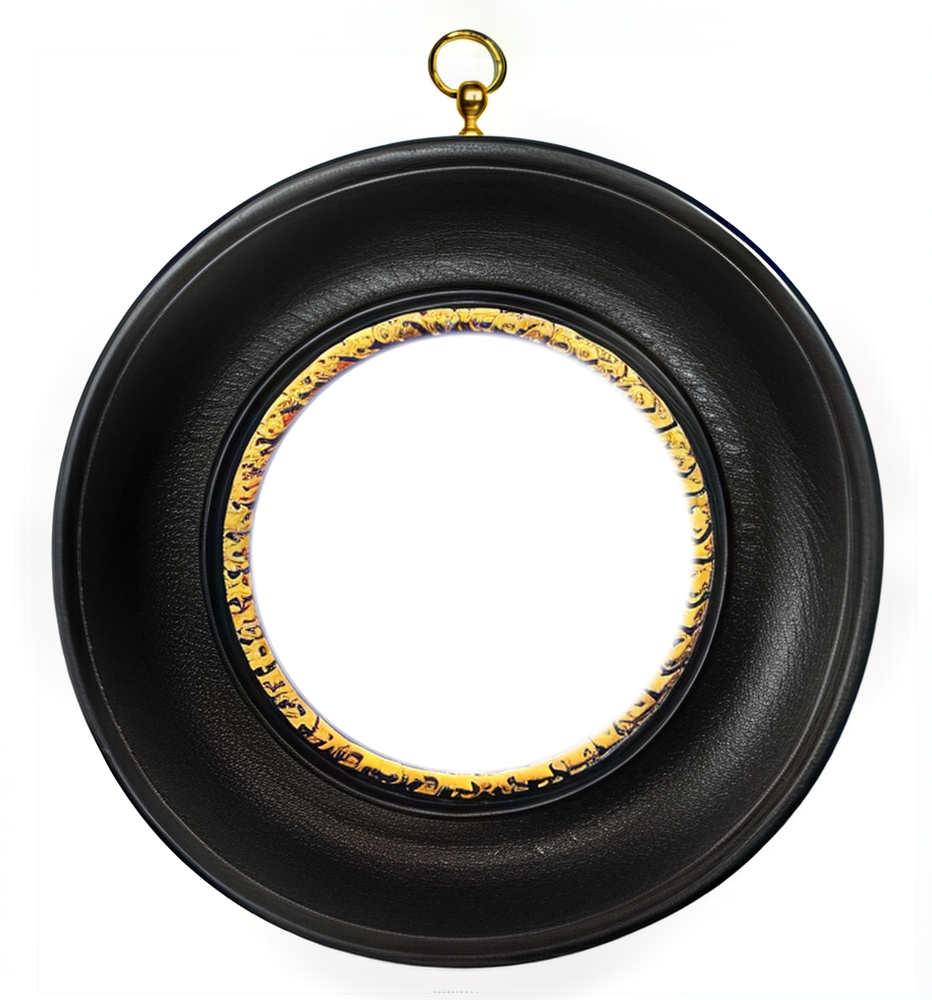
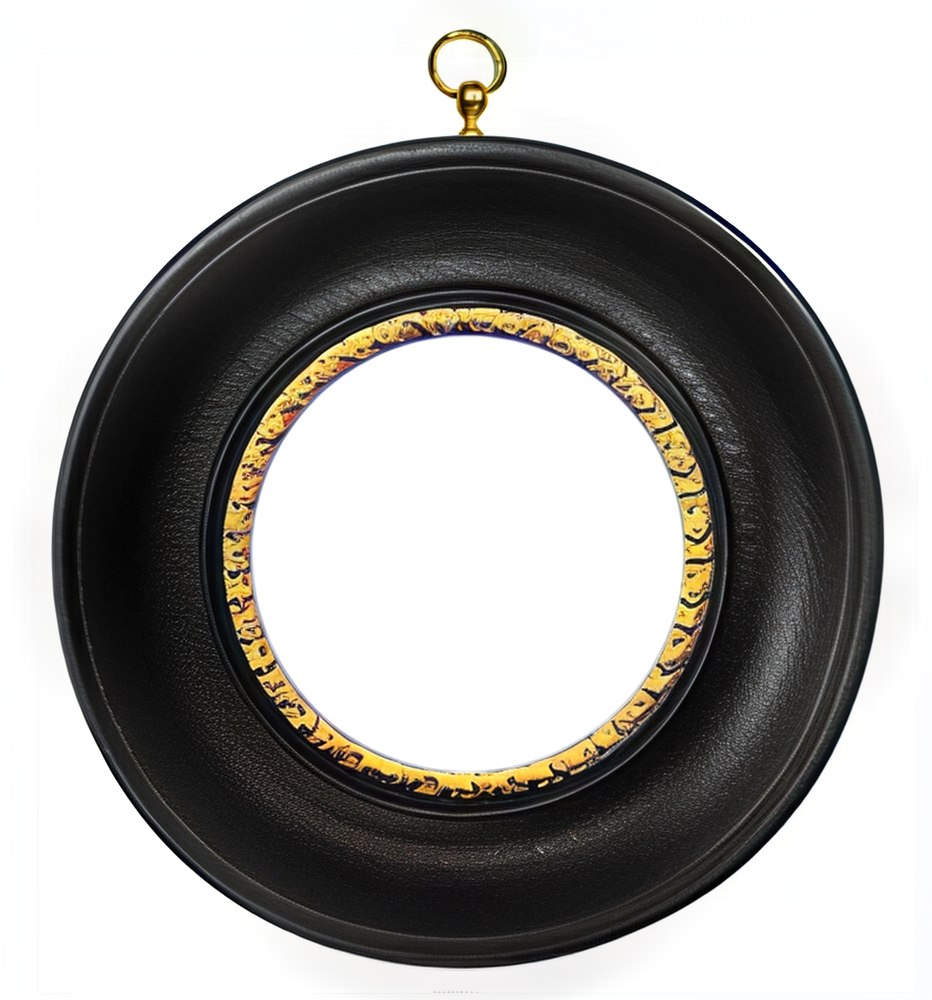
Update manually refined frame apertures

diff --git a/sw.js b/sw.js
@@ -1,4 +1,4 @@
-const CACHE='miniature-frame-selector-v2';
+const CACHE='miniature-frame-selector-v3';
 const SHELL=['./','./index.html','./styles.css','./fixes.css','./app.js','./manifest.webmanifest','./icons/icon.svg','./image-library/catalogue-image-map.json'];
 self.addEventListener('install',e=>e.waitUntil(caches.open(CACHE).then(c=>c.addAll(SHELL)).then(()=>self.skipWaiting())));
 self.addEventListener('activate',e=>e.waitUntil(caches.keys().then(keys=>Promise.all(keys.filter(key=>key!==CACHE).map(key=>caches.delete(key)))).then(()=>self.clients.claim())));
